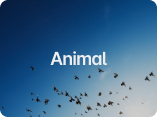
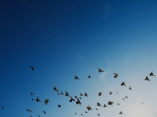
08 feat: add categories section

diff --git a/src/index.html b/src/index.html
@@ -307,6 +307,56 @@
           </div>
         </div>
       </section>
+      <section class="section container" id="categories">
+        <header class="section__header">
+          <h2 class="section__title">Browse by category</h2>
+        </header>
+        <div class="section__body">
+          <div class="categories">
+            <div class="categories__body">
+              <ul class="categories__list">
+                <li class="categories__item" onclick="onCategoryClick('Musical')">
+                  Musical
+                </li>
+                <li class="categories__item" onclick="onCategoryClick('Industrial')">
+                  Industrial
+                </li>
+                <li class="categories__item" onclick="onCategoryClick('Movie')">
+                  Movie Sounds
+                </li>
+                <li class="categories__item" onclick="onCategoryClick('Animal')">
+                  Animal
+                </li>
+                <li class="categories__item" onclick="onCategoryClick('People')">
+                  People
+                </li>
+                <li class="categories__item" onclick="onCategoryClick('Vehicles')">
+                  Vehicles
+                </li>
+                <li class="categories__item" onclick="onCategoryClick('Designs')">
+                  Sound Designs
+                </li>
+                <li class="categories__item" onclick="onCategoryClick('Emergency')">
+                  Emergency
+                </li>
+                <li class="categories__item" onclick="onCategoryClick('Bell')">
+                  Bell
+                </li>
+                <li class="categories__item" onclick="onCategoryClick('Nature')">
+                  Nature
+                </li>
+                <li class="categories__item" onclick="onCategoryClick('Cartoon')">
+                  Cartoon
+                </li>
+                <li class="categories__item" onclick="onCategoryClick('Horror')">
+                  Horror
+                </li>
+              </ul>
+            </div>
+            <button class="categories__more" type="button" onclick="alert('That is all what we have for now')">See all category</button>
+          </div>
+        </div>
+      </section>
     </main>
     <script src="./bundle.min.js" defer></script>
   </body>

diff --git a/src/styles/blocks/_categories.scss b/src/styles/blocks/_categories.scss
@@ -1,0 +1,86 @@
+.categories {
+    $background-images: (
+        './images/categories/musical-bg.jpg',
+        './images/categories/industrial-bg.jpg',
+        './images/categories/movie-bg.jpg',
+        './images/categories/animal-bg.jpg',
+        './images/categories/people-bg.jpg',
+        './images/categories/vehicle-bg.jpg',
+        './images/categories/sound-bg.jpg',
+        './images/categories/emergency-bg.jpg',
+        './images/categories/bell-bg.jpg',
+        './images/categories/nature-bg.jpg',
+        './images/categories/cartoon-bg.jpg',
+        './images/categories/horror-bg.jpg'
+    );
+
+    &__body {
+        margin-top: 12px;
+    }
+
+    &__list {
+        display: grid;
+        grid-template-columns: repeat(6, 1fr);
+        gap: 16px 20px;
+
+        @include tablet {
+            grid-template-columns: repeat(5, 1fr);
+        }
+        
+        @include mobile {
+            grid-template-columns: repeat(3, 1fr);
+            gap: 12px 16px;
+        }
+        
+        @include mobile-sm {
+            grid-template-columns: repeat(2, 1fr);
+            gap: 10px;
+        }
+    }
+
+    &__item {
+        @include flex-center;
+        @include fluid-text(18, 16);
+
+        height: 117px;
+        font-weight: 600;
+        color: var(--color-light);
+        border-radius: var(--border-radius);
+        transition-duration: var(--transition-duration);
+
+        @include hover {
+            opacity: 0.8;
+        }
+
+        @include tablet {
+            height: 100px;
+        }
+
+        @include mobile {
+            height: 90px;
+        }
+
+        @for $i from 1 through length($background-images) {
+            &:nth-of-type(#{$i}) {
+                background: url(nth($background-images, $i)) center/cover no-repeat;
+            }
+        }
+    }
+
+    &__more {
+        font-size: 18px;
+        font-weight: 600;
+        color: var(--color-deep-blue);
+        margin-top: 20px;
+        transition-duration: var(--transition-duration);
+        text-decoration: underline;
+
+        @include mobile-sm {
+            font-size: 16px;
+        }
+
+        @include hover {
+            text-decoration: none;
+        }
+    }
+}

diff --git a/src/styles/blocks/_effects.scss b/src/styles/blocks/_effects.scss
@@ -60,11 +60,7 @@
             }
         }
     }
-
-    &__body {
-        margin-bottom: 20px;
-    }
-
+    
     &__sounds.updated {
         animation-name: appear-disappear;
         animation-duration: 0.5s;
@@ -150,14 +146,16 @@
         font-size: 18px;
         font-weight: 600;
         color: var(--color-deep-blue);
+        margin-top: 20px;
         transition-duration: var(--transition-duration);
+        text-decoration: underline;
 
         @include mobile-sm {
             font-size: 16px;
         }
 
         @include hover {
-            opacity: 0.6;
+            text-decoration: none;
         }
     }
 }

diff --git a/src/styles/blocks/_hero.scss b/src/styles/blocks/_hero.scss
@@ -32,18 +32,18 @@
             margin-bottom: 16px;
     
             @include mobile-sm {
-                font-size: 20px;
+                font-size: 24px;
             }
         }
     
         &-description {
-            @include fluid-text(20, 18);
+            @include fluid-text(20, 16);
     
             color: var(--color-gray-light);
             text-align: center;
             
             @include mobile-sm {
-                font-size: 16px;
+                font-size: 14px;
             }
         }
     }

diff --git a/src/styles/blocks/_search.scss b/src/styles/blocks/_search.scss
@@ -12,6 +12,7 @@
         padding-right: 28px;
         font-size: 16px;
         font-weight: 500;
+        color: var(--color-gray-alt);
         border-radius: var(--border-radius);
         border: 0;
         outline: none;
@@ -23,10 +24,6 @@
             padding-left: 44px;
             padding-right: 24px;
             background-position: 12px 10px;
-        }
-
-        &::placeholder {
-            color: var(--color-gray-alt);
         }
     }
 

diff --git a/src/scripts/categories.js b/src/scripts/categories.js
@@ -1,0 +1,10 @@
+const searchField = document.getElementById("soundEffect");
+
+function onCategoryClick(category) {
+  window.scrollTo(0, 0);
+  searchField.value = category + " sound effect";
+  searchField.style.color = "var(--color-deep-blue)";
+  setTimeout(() => {
+    searchField.style.color = "var(--color-gray-alt)";
+  }, 3000);
+}

diff --git a/src/styles/main.scss b/src/styles/main.scss
@@ -16,3 +16,4 @@
 @import './blocks/partners';
 @import './blocks/effects';
 @import './blocks/effect-bar';
+@import './blocks/categories';
